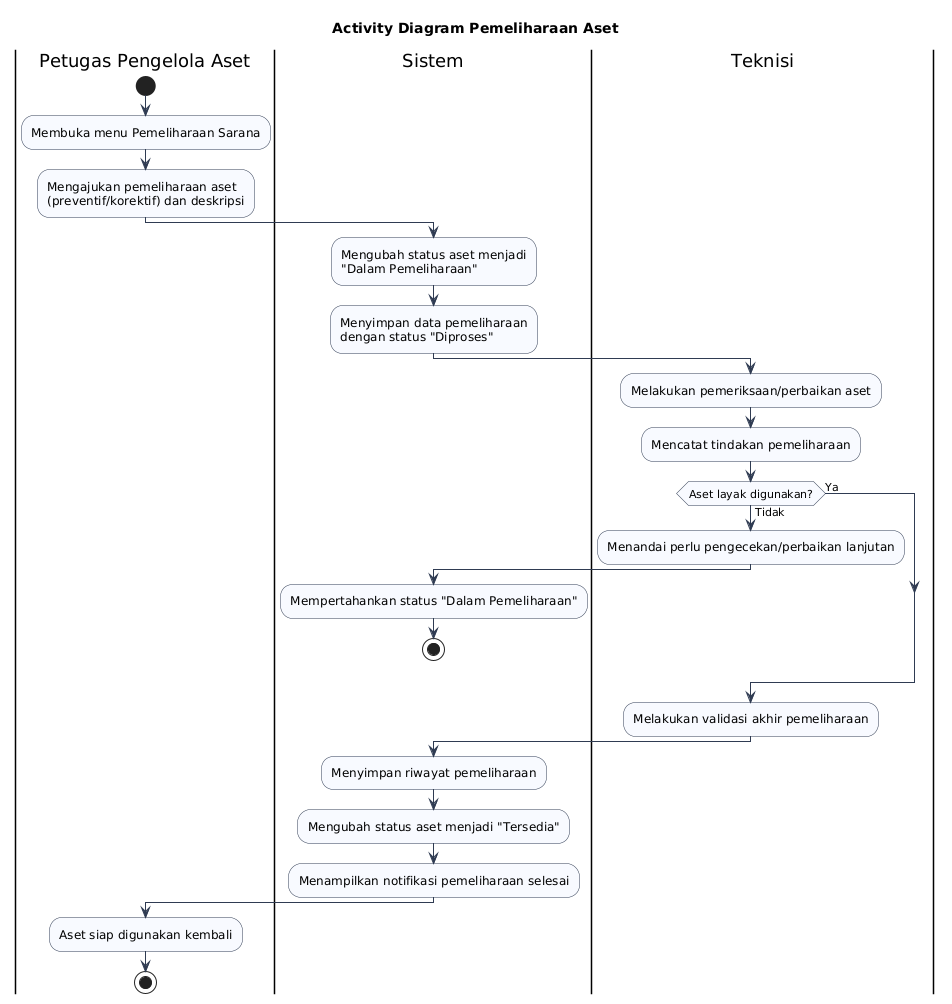
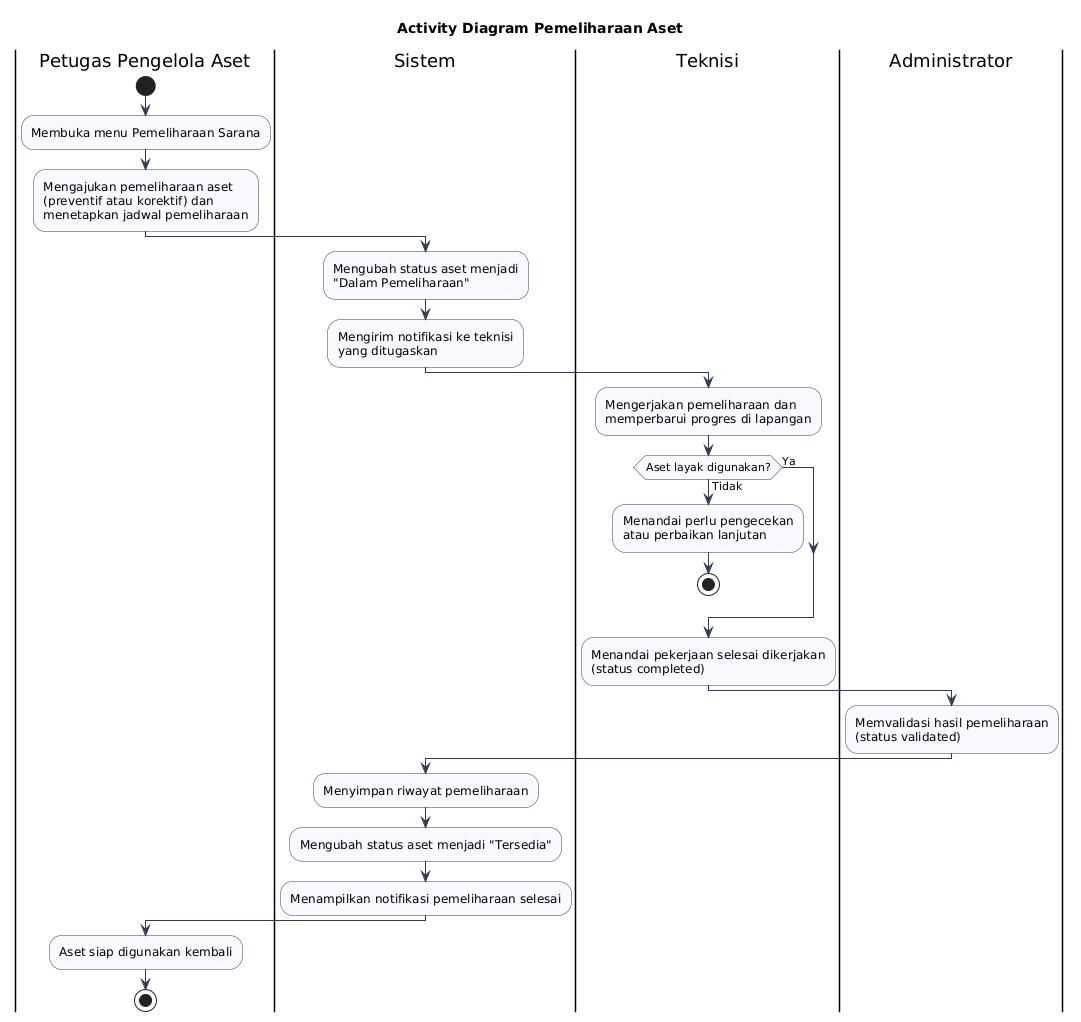
docs: tambah deskripsi 12 activity diagram dan selaraskan diagram pemeliharaan
Menambahkan deskripsi Fungsi/Alur/Tujuan untuk 12 modul. Menyesuaikan
activity diagram pemeliharaan agar validasi akhir dilakukan administrator
dan menambahkan notifikasi ke teknisi, konsisten dengan deskripsi.

Changed region(s): [[0.0, 0.0, 1.0, 0.988]]

diff --git a/docs/deskripsi-activity-diagram.md b/docs/deskripsi-activity-diagram.md
@@ -1,0 +1,123 @@
+# Deskripsi Activity Diagram (12 Modul)
+
+Format: **Fungsi – Alur – Tujuan**. Dapat langsung disalin ke laporan di bawah masing-masing gambar.
+
+---
+
+## 1. Activity Diagram Login
+
+**Fungsi:** mengatur proses masuk pengguna ke dalam sistem berdasarkan hak akses.
+
+**Alur:** pengguna membuka halaman login dan memasukkan email serta password. Sistem memvalidasi format input, lalu mencocokkan kredensial dengan basis data. Apabila kredensial benar, sistem membuat token sesi (JWT) dan mengarahkan pengguna ke dashboard sesuai perannya. Apabila salah, sistem menampilkan pesan kesalahan.
+
+**Tujuan:** memastikan hanya pengguna terdaftar yang dapat mengakses sistem sesuai hak aksesnya.
+
+---
+
+## 2. Activity Diagram Registrasi Akun
+
+**Fungsi:** mengelola pendaftaran akun pengguna baru ke dalam sistem.
+
+**Alur:** pengguna mengisi data diri (nama, email, NIP, unit kerja, password). Sistem memvalidasi kelengkapan data dan memeriksa apakah email/NIP sudah terdaftar. Jika valid dan belum terdaftar, sistem mengenkripsi password serta menyimpan data akun, kemudian menampilkan notifikasi berhasil dan mengarahkan pengguna ke halaman login.
+
+**Tujuan:** menyediakan mekanisme pembuatan akun yang aman dan terverifikasi.
+
+---
+
+## 3. Activity Diagram Lupa Password
+
+**Fungsi:** membantu pengguna memulihkan akses akun melalui verifikasi OTP.
+
+**Alur:** pengguna memasukkan email/nomor terdaftar. Sistem memeriksa keberadaan akun, lalu mengirim kode OTP melalui WhatsApp/email. Pengguna memasukkan OTP, dan jika benar serta belum kedaluwarsa, pengguna dapat memasukkan password baru. Sistem mengenkripsi dan menyimpan password baru, kemudian mengarahkan ke halaman login.
+
+**Tujuan:** memberikan jalur pemulihan akun yang aman tanpa melibatkan administrator.
+
+---
+
+## 4. Activity Diagram Tambah Inventaris
+
+**Fungsi:** mengelola penambahan data aset medis maupun non-medis ke dalam inventaris.
+
+**Alur:** petugas pengelola aset membuka menu inventaris dan mengisi data aset (nama, kategori, kondisi, lokasi, spesifikasi). Sistem memvalidasi kelengkapan data, membuat kode aset, menetapkan status awal "Tersedia", lalu menyimpan data ke basis data dan memperbarui daftar inventaris.
+
+**Tujuan:** memastikan setiap aset tercatat secara terstruktur dengan status yang jelas.
+
+---
+
+## 5. Activity Diagram Peminjaman Aset
+
+**Fungsi:** mengelola proses pengajuan dan persetujuan peminjaman aset antarunit.
+
+**Alur:** pemohon memilih aset dan mengisi data peminjaman (tujuan, durasi, unit). Sistem memeriksa status aset; jika tidak "Tersedia", pengajuan ditolak. Jika tersedia, pengajuan disimpan dengan status menunggu persetujuan. Penyetuju (admin/leader) meninjau pengajuan. Jika disetujui, status aset berubah menjadi "Dipinjam"; jika ditolak, sistem menyimpan alasan penolakan dan memberi notifikasi kepada pemohon.
+
+**Tujuan:** memastikan peminjaman hanya dapat dilakukan pada aset yang benar-benar tersedia serta tercatat melalui persetujuan.
+
+---
+
+## 6. Activity Diagram Pengembalian Aset
+
+**Fungsi:** mengelola proses pengembalian aset yang telah dipinjam beserta validasinya.
+
+**Alur:** peminjam memilih data peminjaman aktif dan mengisi kondisi aset saat dikembalikan. Sistem memeriksa tanggal pengembalian; apabila melewati batas waktu, sistem mencatat keterlambatan dan menerapkan sanksi. Petugas memvalidasi kondisi fisik aset, kemudian sistem menyimpan data pengembalian, mengubah status aset menjadi "Tersedia", dan memperbarui riwayat peminjaman.
+
+**Tujuan:** memastikan aset kembali tercatat dengan kondisi jelas serta menegakkan disiplin waktu pengembalian.
+
+---
+
+## 7. Activity Diagram Pemeliharaan Aset
+
+**Fungsi:** mengelola proses pemeliharaan (maintenance) aset, baik preventif maupun korektif.
+
+**Alur:** petugas mengajukan pemeliharaan dan menetapkan jadwalnya, kemudian sistem mengubah status aset menjadi "Dalam Pemeliharaan". Teknisi mengerjakan pemeliharaan dan memperbarui progres di lapangan, lalu menandai pekerjaan selesai dikerjakan (completed). Setelah itu, administrator memvalidasi hasil pemeliharaan sehingga status menjadi selesai (validated) dan aset kembali berstatus "Tersedia".
+
+**Tujuan:** menjaga aset agar tetap layak pakai dan mendukung kontinuitas pelayanan.
+
+---
+
+## 8. Activity Diagram Laporan dan Arsip
+
+**Fungsi:** menyajikan laporan data aset dan mengelola arsip dokumen.
+
+**Alur:** pengguna memilih jenis laporan (aset, peminjaman, pemeliharaan) dan menentukan rentang tanggal/filter. Sistem mengambil data sesuai filter, lalu menampilkan ringkasan dan grafik. Pengguna dapat mengekspor laporan ke format PDF/Excel atau mengunggah dokumen ke arsip sistem.
+
+**Tujuan:** mendukung pemantauan dan pendokumentasian pengelolaan aset secara terstruktur.
+
+---
+
+## 9. Activity Diagram Penggunaan Aset (Mutasi Sementara Antarunit)
+
+**Fungsi:** mencatat penggunaan aset oleh unit lain secara sementara tanpa mengubah kepemilikan.
+
+**Alur:** petugas unit memilih aset dan mengisi data penggunaan (unit pengguna, ruangan, operator, waktu mulai, tujuan). Sistem memeriksa status aset; jika tidak tersedia, penggunaan ditolak. Jika tersedia, sistem mencatat mutasi sementara dari unit asal ke unit tujuan dan mengubah status menjadi "Digunakan". Setelah selesai, petugas mengisi waktu selesai dan kondisi aset, lalu sistem mengembalikan status aset menjadi "Tersedia" dan menyimpan riwayat penggunaan.
+
+**Tujuan:** memperjelas status dan lokasi aset ketika digunakan antarunit serta menjaga keterlacakan perpindahan sementara.
+
+---
+
+## 10. Activity Diagram Manajemen Pengguna
+
+**Fungsi:** mengelola data akun pengguna beserta hak aksesnya oleh administrator.
+
+**Alur:** administrator memilih aksi tambah, ubah, atau hapus pengguna. Untuk tambah/ubah, administrator mengisi data (nama, email, peran, hak akses, unit) dan sistem memvalidasi serta menyimpannya. Untuk hapus, administrator mengonfirmasi penghapusan dan sistem menonaktifkan/menghapus akun. Setiap perubahan dicatat ke log aktivitas.
+
+**Tujuan:** memastikan pengelolaan akun dan hak akses berjalan terkendali dan terdokumentasi.
+
+---
+
+## 11. Activity Diagram Arsip Riwayat Aktivitas
+
+**Fungsi:** menampilkan rekam jejak aktivitas pengguna di dalam sistem.
+
+**Alur:** pengguna membuka menu arsip riwayat aktivitas dan menentukan filter (tanggal, jenis aktivitas). Sistem mengambil data log sesuai hak akses, lalu menampilkan daftar aktivitas (waktu, aktor, aksi, modul). Pengguna dapat menelusuri atau melihat detail aktivitas.
+
+**Tujuan:** mendukung transparansi dan kebutuhan audit terhadap aktivitas sistem.
+
+---
+
+## 12. Activity Diagram SPK Prioritas Aset (TOPSIS-AHP)
+
+**Fungsi:** memberikan rekomendasi prioritas aset berdasarkan beberapa kriteria penilaian.
+
+**Alur:** pengguna membuka menu SPK dan memilih jenis aset. Sistem menampilkan data aset dengan bobot default; pengguna dapat menyesuaikan bobot kriteria. Setelah menekan "Hitung Ulang", sistem melakukan normalisasi nilai, menentukan solusi ideal, menghitung jarak dan nilai preferensi dengan metode TOPSIS, serta memvalidasi konsistensi bobot melalui AHP. Hasil akhir berupa tabel ranking prioritas aset beserta rekomendasinya.
+
+**Tujuan:** membantu pengelola mengambil keputusan prioritas pemeliharaan/penggantian aset secara objektif dan terukur.
